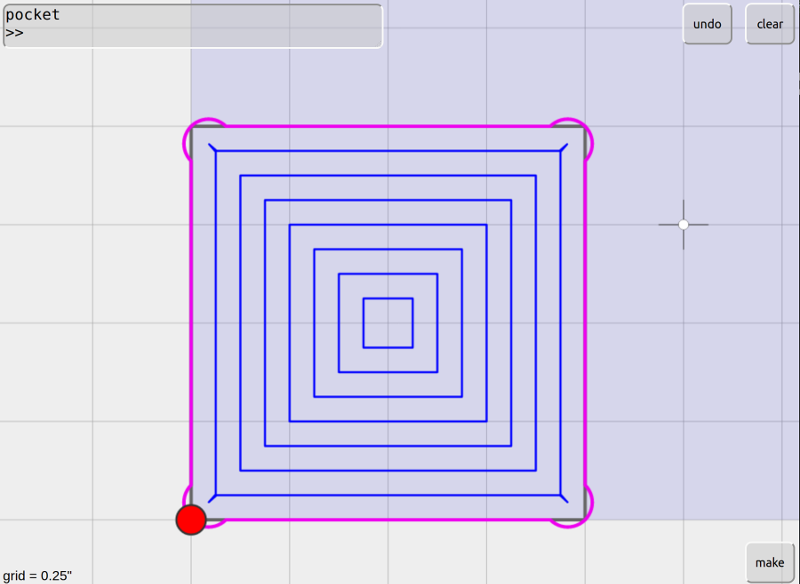
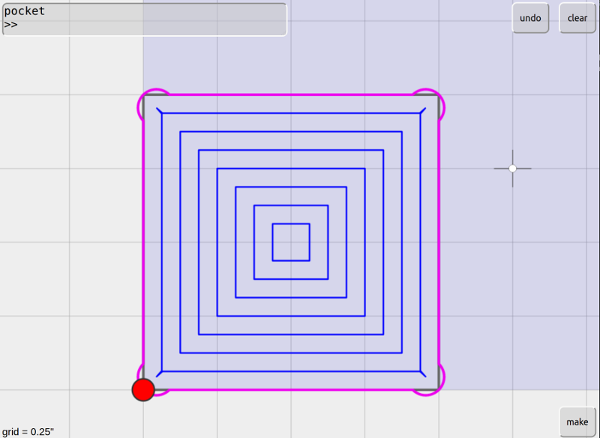
sort pocket cut order

diff --git a/js/make.js b/js/make.js
@@ -96,24 +96,31 @@ function make(){
 			}
 		}
 		else if(pockets.length!=0){
+			console.log(pockets)
 			//pocket
 
-			for(p=1;p<=pt;p++){
+			for(i=0;i<pockets.length;i++){
+		
+				for(p=1;p<=pt;p++){
 
+					for(j=0;j<pockets[i].length;j++){
 
-				for(i=0;i<pockets.length;i++){
-					sbp+="J2,"+(pockets[i][0].X/grid).toFixed(3) + "," + (pockets[i][0].Y/grid).toFixed(3) +"\n"
-					if(p==pt){
-						sbp+="MZ,-"+cutDepth+"\n"
+						sbp+="J2,"+(pockets[i][j][0].X/grid).toFixed(3) + "," + (pockets[i][j][0].Y/grid).toFixed(3) +"\n"
+						if(p==pt){
+							sbp+="MZ,-"+cutDepth+"\n"
+						}
+						else{
+							sbp+="MZ,-" + (p*pd).toFixed(3) + "\n"
+						}
+	
+						for(k=1;k<pockets[i][j].length;k++){
+							sbp+="M2,"+(pockets[i][j][k].X/grid).toFixed(3) + "," + (pockets[i][j][k].Y/grid).toFixed(3) + "\n"
+						}
+						sbp+="M2,"+(pockets[i][j][0].X/grid).toFixed(3) + "," + (pockets[i][j][0].Y/grid).toFixed(3) + "\n"
+
+						sbp+="JZ,0.1\n"
 					}
-					else{
-						sbp+="MZ,-" + (p*pd).toFixed(3) + "\n"
-					}	
-					for(j=1;j<pockets[i].length;j++){
-						sbp+="M2,"+(pockets[i][j].X/grid).toFixed(3) + "," + (pockets[i][j].Y/grid).toFixed(3) + "\n"
-					}
-					sbp+="M2,"+(pockets[i][0].X/grid).toFixed(3) + "," + (pockets[i][0].Y/grid).toFixed(3) + "\n"
-					sbp+="JZ,0.1\n"
+
 				}
 
 			}
@@ -195,28 +202,36 @@ function make(){
 		}
 		else if(pockets.length!=0){
 
-			for(p=1;p<=pt;p++){
+			for(i=0;i<pockets.length;i++){
 
-				for(i=0;i<pockets.length;i++){
-					g+="g0x"+(pockets[i][0].X/grid).toFixed(3) + "y" + (pockets[i][0].Y/grid).toFixed(3) +"\n"
-					if(p==pt){
-						g+="g1z-" + cutDepth + "f" + plunge +"\n"
-					}
-					else{
-						g+="g1z-" + (p*pd).toFixed(3) + "f" + plunge +"\n"
-					}
-					for(j=1;j<pockets[i].length;j++){
-						if(j==1){
-							g+="g1x"+(pockets[i][j].X/grid).toFixed(3) + "y" + (pockets[i][j].Y/grid).toFixed(3)+ "f" + feed + "\n"
+				for(p=1;p<=pt;p++){
+
+					for(j=0;j<pockets[i].length;j++){
+
+						g+="g0x"+(pockets[i][j][0].X/grid).toFixed(3) + "y" + (pockets[i][j][0].Y/grid).toFixed(3) +"\n"
+						if(p==pt){
+							g+="g1z-" + cutDepth + "f" + plunge +"\n"
 						}
 						else{
-							g+="g1x"+(pockets[i][j].X/grid).toFixed(3) + "y" + (pockets[i][j].Y/grid).toFixed(3) + "\n"
+							g+="g1z-" + (p*pd).toFixed(3) + "f" + plunge +"\n"
 						}
+						//
+						for(k=1;k<pockets[i][j].length;k++){
+							if(k==1){
+								g+="g1x"+(pockets[i][j][k].X/grid).toFixed(3) + "y" + (pockets[i][j][k].Y/grid).toFixed(3)+ "f" + feed + "\n"
+							}
+							else{
+								g+="g1x"+(pockets[i][j][k].X/grid).toFixed(3) + "y" + (pockets[i][j][k].Y/grid).toFixed(3) + "\n"
+							}
+						}
+						//
+						g+="g1x"+(pockets[i][j][0].X/grid).toFixed(3) + "y" + (pockets[i][j][0].Y/grid).toFixed(3)+ "\n"
+					
+						g+="g0z0.1\n"
 					}
-					g+="g1x"+(pockets[i][0].X/grid).toFixed(3) + "y" + (pockets[i][0].Y/grid).toFixed(3)+ "\n"
-					g+="g0z0.1\n"
-				}
+					//
 
+				}
 			}
 		}
 		else if(cutout.length!=0){

diff --git a/index.html b/index.html
@@ -49,7 +49,7 @@ var gridIncrement = 10
 var grid = 4 //1/4"
 var stock = []
 var tool = 0.125
-var units = 'sbp' //inch or mm
+var units
 var scale = 1000   //
 var layer = 0
 var output = 'gcode'  //sbp gcode dxf
@@ -233,7 +233,7 @@ $("#text-area").keyup(function(e){
 		//settings
 		else if(cmd.substring(0,9)=="cutdepth="){
 			cutDepth=parseFloat(cmd.substring(9))
-			cmd = 'cutdepth = -' + cutDepth +"\""
+			cmd = 'cutdepth = ' + cutDepth +"\""
 		}
 		else if(cmd.substring(0,9)=="feedrate="){
 			feedrate=parseFloat(cmd.substring(9))
@@ -273,7 +273,7 @@ $("#text-area").keyup(function(e){
 		}
 		else if(cmd.substring(0,10)=="passdepth="){
 			passDepth=parseFloat(cmd.substring(10))
-			cmd = 'passdepth = -' + passDepth +"\""
+			cmd = 'passdepth = ' + passDepth +"\""
 		}
 		else if(cmd.substring(0,11)=="plungerate="){
 			plungerate=parseFloat(cmd.substring(11))
@@ -859,12 +859,17 @@ function makeFillets(){
 
 		polygons=clip
 
+		for(i=0;i<polygons.length;i++){
+			polygons[i].push(polygons[i][0])
+		}
+
 		}
 		else{
 			for(i=0;i<chamfers.length;i++){
 				chamfers[i].push(chamfers[i][0])
 			}
 			polygons=chamfers
+
 		}
 
 }
@@ -1013,7 +1018,42 @@ function pocket(){
 
 	ClipperLib.JS.ScaleDownPaths(pockets, scale)
 
-	//TODO sort
+	//sort
+
+	console.log(pockets)
+
+   // 0 = false
+   //-1 = on
+   // 1 = in
+
+	temp=[]
+
+	while(pockets.length>0){
+
+	temp.push([])
+	temp[temp.length-1].push(pockets[pockets.length-1])
+	pockets.pop()
+
+	for(i=pockets.length-1;i>=0;i--){
+		inpg = ClipperLib.Clipper.PointInPolygon(pockets[i][0],temp[temp.length-1][0])
+		console.log(inpg)
+		if(inpg==1){
+			temp[temp.length-1].push(pockets[i])
+			pockets.splice(i,1)
+		}
+	}
+
+	}
+
+
+	for(i=0;i<temp.length;i++){
+		temp[i][0].reverse()
+		temp[i].reverse()
+	}
+
+	console.log(temp)
+
+	pockets=temp
 
 	draw()
 

diff --git a/js/draw.js b/js/draw.js
@@ -89,6 +89,7 @@ function draw(){
 			//console.log(polygons[i][j].X)
 			ctx.lineTo(polygons[i][j].X*gridSpace*sf,0-(polygons[i][j].Y*gridSpace*sf))
 		}
+		//ctx.lineTo(polygons[i][0].X*gridSpace*sf,0-(polygons[i][0].Y*gridSpace*sf))
 		ctx.stroke()
 	}
 
@@ -127,12 +128,14 @@ function draw(){
 		ctx.lineWidth=0.4*sf
 		ctx.strokeStyle='#0000ff'
 		for(i=0;i<pockets.length;i++){
-			ctx.beginPath()
 			for(j=0;j<pockets[i].length;j++){
-				ctx.lineTo(pockets[i][j].X*gridSpace*sf,0-(pockets[i][j].Y*gridSpace*sf))
+				ctx.beginPath()
+				for(k=0;k<pockets[i][j].length;k++){
+					ctx.lineTo(pockets[i][j][k].X*gridSpace*sf,0-(pockets[i][j][k].Y*gridSpace*sf))
+				}
+				ctx.lineTo(pockets[i][j][0].X*gridSpace*sf,0-(pockets[i][j][0].Y*gridSpace*sf))
+				ctx.stroke()
 			}
-			ctx.lineTo(pockets[i][0].X*gridSpace*sf,0-(pockets[i][0].Y*gridSpace*sf))
-			ctx.stroke()
 		}
 	}
 

diff --git a/README.md b/README.md
@@ -5,7 +5,7 @@ FabMo CAD is a web app for drawing simple shapes in a browser and creating toolp
 [LIVE DEMO](http://gofabmo.org/fabmo-cad-app) 
 :smile_cat:
 
-##Command Line Example
+##Command Line Examples
 
 ```
 rect0,0,1 (draw 1" square at 0,0)
